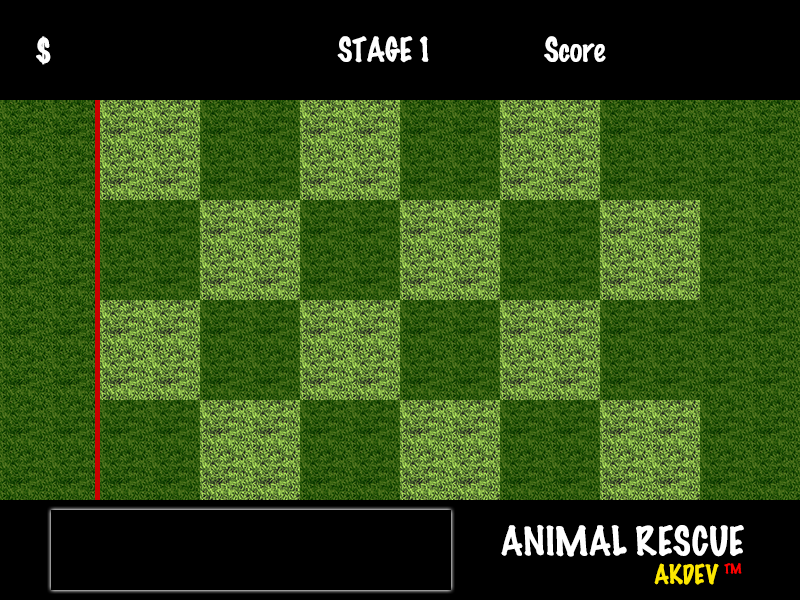
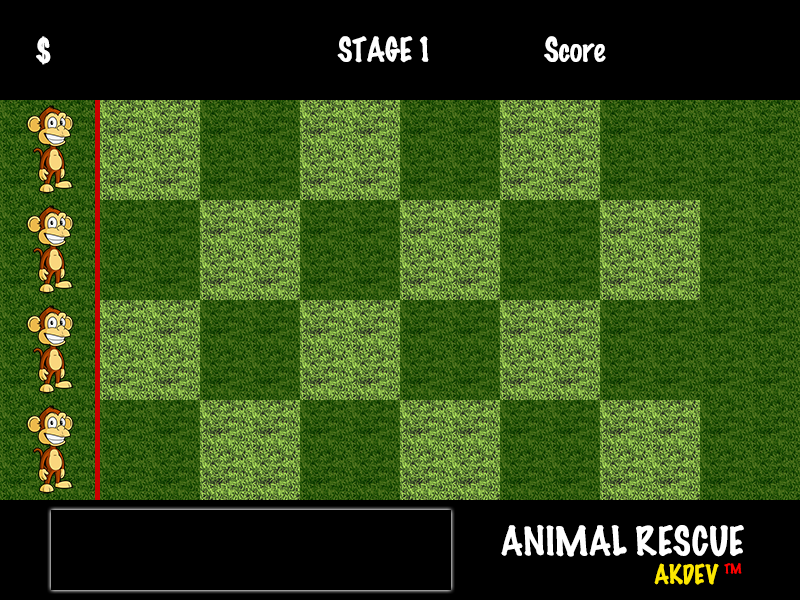
Changes to images

Changed region(s): [[0.0, 0.15, 0.125, 0.84]]

diff --git a/AnimalRescue/index.html b/AnimalRescue/index.html
@@ -6,7 +6,8 @@
 <!-- Date Last Modified: July 31, 2015 -->
 <!-- Description: Animal Rescue is a Tower Defense game where player's main goal is to build strcutures to protect animals from being hunted -->
 <!-- Revision History 
-    August 6, 2015  - Added Hunter, destroy method in tower classes
+    August 6, 2015  - Changes to images
+                    - Added Hunter, destroy method in tower classes
     August 5, 2015  - Added grid system, tower, and updated scoreboard
                     - Updated button atlas and added tower buttons
     August 4, 2015  - Added scoreboard, label object, added some constant configurations, play level
